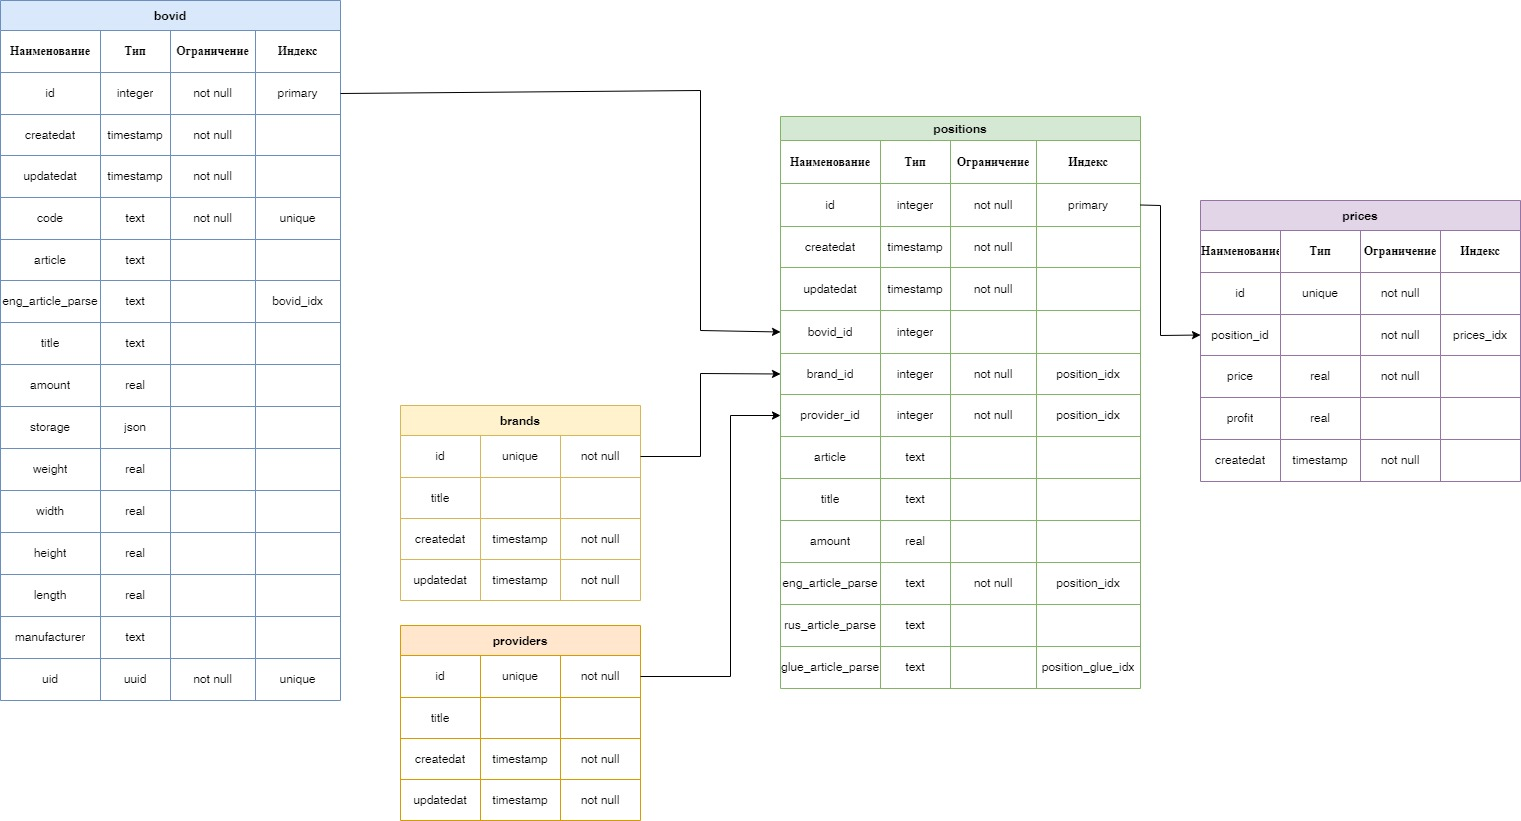
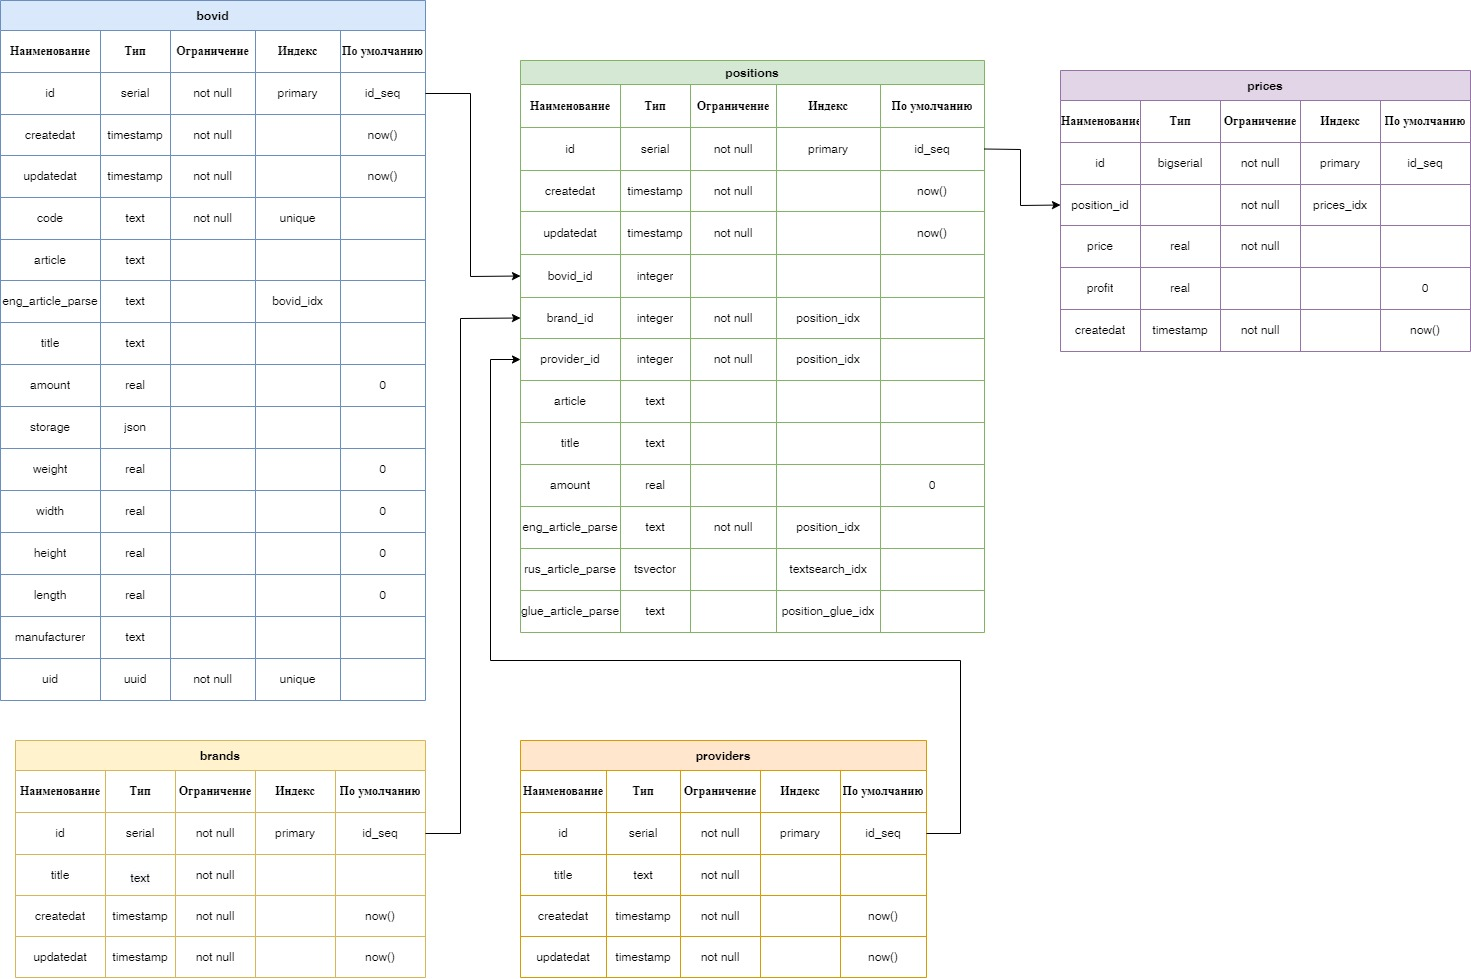
added tsvector column for table positions

diff --git a/controllers/position.controller.js b/controllers/position.controller.js
@@ -3,7 +3,12 @@ const priceHandler = require('../libs/price.handler');
 const db = require('../libs/db');
 const logger = require('../libs/logger');
 
-module.exports.addBovid = async (ctx) => {
+module.exports = {
+  addBovid,
+  add,
+};
+
+async function addBovid(ctx) {
   const start = Date.now();
 
   for (const position of ctx.positions) {
@@ -30,7 +35,7 @@ module.exports.addBovid = async (ctx) => {
   ctx.body = {
     message: `upload positions complete in ${(Date.now() - start) / 1000}`,
   };
-};
+}
 
 function _updatePositionBovidByUID(data) {
   return db.query(`UPDATE bovid
@@ -171,7 +176,7 @@ function _makeData(data, structure, isBovid) {
   };
 }
 
-module.exports.add = async (ctx) => {
+async function add(ctx) {
   const start = Date.now();
   const { brandId, providerId, profit } = ctx.request.body;
   const brandTitle = await _getBrandTitle(brandId);
@@ -210,7 +215,7 @@ module.exports.add = async (ctx) => {
   ctx.body = {
     message: `upload ${ctx.positions.length} positions complete in ${(Date.now() - start) / 1000}`,
   };
-};
+}
 
 function _getBrandTitle(brandId) {
   return db.query(`SELECT title FROM brands
@@ -234,7 +239,7 @@ function _updatePosition(data, brandId, providerId) {
     article=$2,
     title=$3,
     amount=$4,
-    rus_article_parse=$5
+    rus_article_parse=to_tsvector('pg_catalog.russian', coalesce($5, ''))
   WHERE eng_article_parse=$6 AND brand_id=$7 AND provider_id=$8
   RETURNING *
   `, [
@@ -263,7 +268,7 @@ function _insertPosition(data, brandId, providerId) {
       eng_article_parse,
       glue_article_parse
     )
-    VALUES ($1, $2, $3, $4, $5, $6, $7, $8, $9)
+    VALUES ($1, $2, $3, $4, $5, $6, to_tsvector('pg_catalog.russian', coalesce($7, '')), $8, $9)
     RETURNING *
   `, [
     brandId,

diff --git a/controllers/search.controller.js b/controllers/search.controller.js
@@ -86,7 +86,7 @@ function _fullTextSearch(query, offset, limit) {
       V.title as provider_title,
       P.article,
       P.title,
-      ts_rank(to_tsvector(rus_article_parse), to_tsquery($1)) as rank,
+      ts_rank(rus_article_parse, to_tsquery($1)) as rank,
       M.price,
       (M.price*(1+M.profit/100)) as settlement_price,
       B.amount as amount_bovid,
@@ -108,12 +108,12 @@ function _fullTextSearch(query, offset, limit) {
       on P.brand_id=R.id
     join providers V
       on P.provider_id=V.id
-    where to_tsvector(rus_article_parse) @@ to_tsquery($1) AND
+    where rus_article_parse @@ to_tsquery($1) AND
       M.createdat = (
         select max(createdat) from prices p3
         where M.position_id=p3.position_id
       ) 
-    ORDER BY ts_rank(to_tsvector(rus_article_parse), to_tsquery($1)) DESC
+    ORDER BY ts_rank(rus_article_parse, to_tsquery($1)) DESC
     OFFSET $2 LIMIT $3
   `, [normalize(parserRus(query)), offset, limit])
     .then((res) => res.rows);
@@ -168,7 +168,7 @@ function _glueTextSearch(query, offset, limit) {
         reject();
       })
       .catch((error) => {
-        // ошибка проброшенная от сюда с помощью throw ломает приложение
+        // ошибка проброшенная отсюда с помощью throw ломает приложение,
         // чтобы не потерять ошибки запросов к БД они логируются здесь
         logger.error(error.message);
         reject();

diff --git a/libs/db.init.js b/libs/db.init.js
@@ -37,7 +37,7 @@ const data = {
       id SERIAL PRIMARY KEY,
       createdat TIMESTAMP NOT NULL DEFAULT NOW(),
       updatedat TIMESTAMP NOT NULL DEFAULT NOW(),
-      title TEXT
+      title TEXT NOT NULL
     );
   `)
     .then(() => logger.info('create table "brands"'))
@@ -48,7 +48,7 @@ const data = {
       id SERIAL PRIMARY KEY,
       createdat TIMESTAMP NOT NULL DEFAULT NOW(),
       updatedat TIMESTAMP NOT NULL DEFAULT NOW(),
-      title TEXT
+      title TEXT NOT NULL
     );
   `)
     .then(() => logger.info('create table "providers"'))
@@ -88,7 +88,7 @@ const data = {
       title TEXT,
       amount REAL DEFAULT 0,
       eng_article_parse TEXT NOT NULL,
-      rus_article_parse TEXT,
+      rus_article_parse TSVECTOR,
       glue_article_parse TEXT
     );
   `)
@@ -111,6 +111,7 @@ const data = {
     CREATE INDEX bovid_idx ON bovid (eng_article_parse);
     CREATE INDEX positions_idx ON positions (eng_article_parse, brand_id, provider_id);
     CREATE INDEX positions_glue_idx ON positions (glue_article_parse);
+    CREATE INDEX textsearch_idx ON positions USING GIN (rus_article_parse);
     CREATE INDEX prices_idx ON prices (position_id);
   `)
     .then(() => logger.info('create indexes'))
